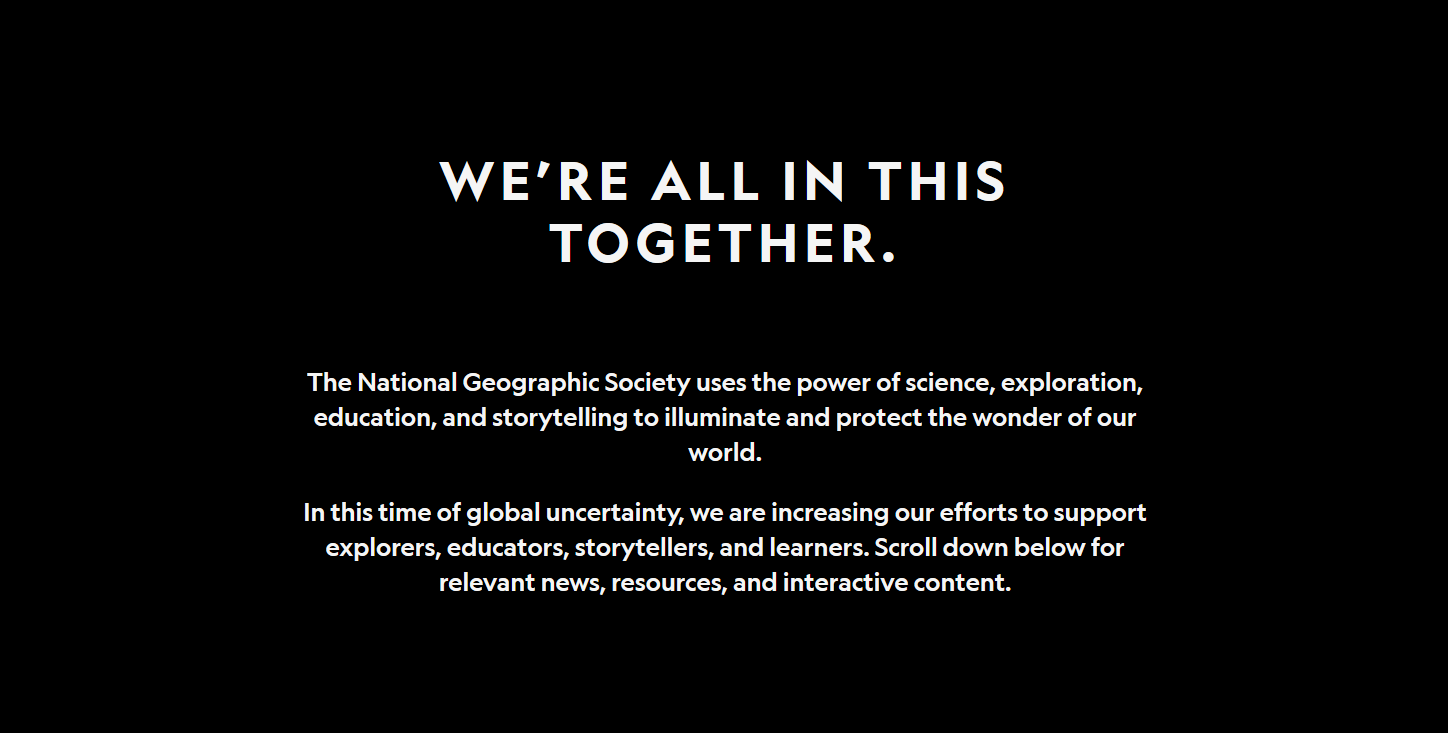
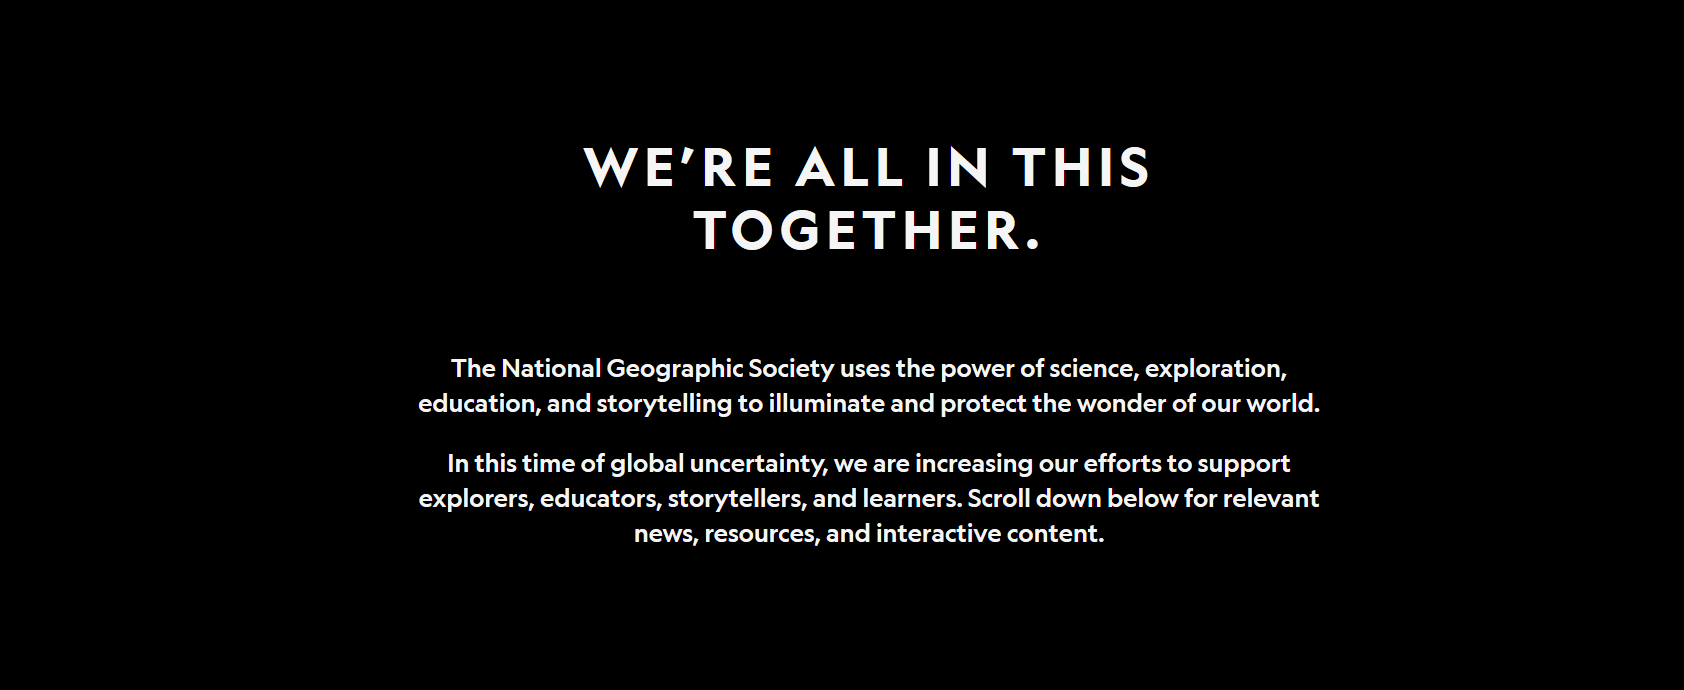
Finished feature-section on components page

Changed region(s): [[0.2175, 0.487, 0.808, 0.8217], [0.2797, 0.213, 0.7148, 0.2739], [0.3729, 0.3043, 0.6215, 0.3652]]

diff --git a/components/index.html b/components/index.html
@@ -57,7 +57,6 @@
                     <ul class="sidebar-nav__list">
                         <li><a href="#feature-section">feature-section</a></li>
                         <li><a href="#feature-section__contents">feature-section__contents</a></li>
-                        <li><a href="#feature-section--left">feature-section--left</a></li>
                         <li><a href="#feature-section--right">feature-section--right</a></li>
                         <li><a href="#feature-section--hero">feature-section--hero</a></li>
                     </ul>
@@ -401,13 +400,13 @@
         <!--Feature-Section-->
         <section id="featuresection" class="page-section">
             <h2 class="components-page__section-heading">Feature Section</h2>
-            <article id="feature-section" class="component component--not--done">
+            <article id="feature-section" class="component component--is--done">
                 <h3 class="component__name">Feature-Section</h3>
                 <div class="component__img">
-                    <img src="img/feature-section__background.png" alt="Feature Section">
+                    <img src="img/feature-section__background-screenshot.jpg" alt="Feature Section">
                 </div>
                 <div class="component__code">
-                    <div class="feauture-section--container">
+                    <div class="feature-section--container covid-section--background">
                         <div class="content-wrapper">
                             <div class="section__content">
                                 <h2 class="section-header">COVID-19 Emergency Fund for Journalists</h2>
@@ -418,13 +417,80 @@
                                     <a href="#!">Learn More</a>
                                 </h5>
                             </div>
+                            <div class="section__content"></div>
                         </div>
                     </div>
                 </div>
             </article>
-
+            <article id="feature-section__contents" class="component component--is--done">
+                <h3 class="component__name">Feature-Section__Contents</h3>
+                <div class="component__img">
+                    <img src="img/feature-section__contents.png" alt="Feature Section Content">
+                </div>
+                <div class="component__code black">
+                    <div class="content-wrapper">
+                        <div class="section__content">
+                            <h2 class="section-header">COVID-19 Emergency Fund for Journalists</h2>
+                            <p class="section-body">The National Geographic Society’s emergency fund will support
+                                journalists around the world who wish to safely cover COVID-19 within their own
+                                communities.</p>
+                            <h5 class="button">
+                                <a href="#!">Learn More</a>
+                            </h5>
+                        </div>
+                    </div>
+                </div>
+            </article>
+            <article id="feature-section--right" class="component component--is--done">
+                <h3 class="component__name">Feature-Section--right</h3>
+                <div class="component__img">
+                    <img src="img/feature-section--right.jpg" alt="Feature Section Right">
+                </div>
+                <div class="component__code">
+                    <div class="feature-section--container schools-section--background">
+                        <div class="content-wrapper">
+                            <div class="section__content"></div>
+                            <div class="section__content">
+                                <h2 class="section-header">Schools are closed. Learning is open.</h2>
+                                <p class="section-body">There are many engaging, creative, and fun ways to learn at
+                                    home. We invite you to explore curated collections of activities that have been
+                                    developed for educators, parents, and caregivers to implement with K–12 learners
+                                    anywhere, anytime.</p>
+                                <h5 class="button">
+                                    <a href="#!">Explore More</a>
+                                </h5>
+                            </div>
+                        </div>
+                    </div>
+                </div>
+            </article>
+            <article id="feature-section--hero" class="component component--not--done">
+                <h3 class="component__name">Feature-Section--Hero</h3>
+                <div class="component__img">
+                    <img src="img/feature-section--hero.png" alt="Feature Section Hero">
+                </div>
+                <div class="component__code">
+                    <div class="black">
+                        <div class="content-wrapper hero__content-wrapper">
+                            <div class="hero__content">
+                                <h2 class="whitespace"></h2>
+                                <h2 class="section-header hero-header">We're all in this together.</h2>
+                                <p class="whitespace"></p>
+                                <h4 class="hero--strong-text">The National Geographic Society uses the power of science,
+                                    exploration,
+                                    education, and storytelling to illuminate and protect the wonder of our world.</h4>
+                                <h4 class="hero--strong-text">In this time of global uncertainty, we are increasing our
+                                    efforts to
+                                    support explorers, educators, storytellers, and learners. Scroll down below for
+                                    relevant news, resources, and interactive content.</h4>
+                                <p class="whitespace"></p>
+                            </div>
+                        </div>
+                    </div>
+                </div>
+            </article>
+        </section>
     </div>
-
 </body>
 
 </html>

diff --git a/css/main.css b/css/main.css
@@ -51,9 +51,10 @@ h3 {
 }
 
 h4 {
-    font-size: 1.25rem;
+    font-size: 1.35rem;
     text-transform: none;
-    font-weight: 900;
+    font-weight: 800;
+    letter-spacing: 0.25px;
 }
 
 h5 {
@@ -186,7 +187,7 @@ a {
     margin: 0;
 }
 .components-page .component__name {
-    top: 5rem;
+    top: 4.45rem;
     position: sticky;
     z-index: 9;
 }
@@ -429,10 +430,17 @@ h5.button{
 /**
 .feature-section
 **/
-.feauture-section--container {
+.covid-section--background {
   background-image: linear-gradient(rgba(0, 0, 0, 0.3), rgba(0, 0, 0, 0.3)), url(../components/img/feature-section__background.jpg);
   background-color: rgba(255, 255, 255, 0.3);
   min-width: 100% !important;
+}
+.schools-section--background {
+  background-image: linear-gradient(rgba(0, 0, 0, 0.3), rgba(0, 0, 0, 0.3)), url(../components/img/schools-section--background.jpg);
+  background-color: rgba(255, 255, 255, 0.3);
+  min-width: 100% !important;
+}
+.feature-section--container {
   height: 100vh;
   background-attachment: fixed;
   background-position: center;
@@ -451,4 +459,24 @@ h5.button{
 .section__content {
   min-height: 318px;
   width: 50%;
+}
+.hero--strong-text {
+  color: var(--color-white);
+  text-align: center;
+}
+.hero__content {
+  min-height: 318px;
+  width: 66.66%;
+}
+.hero-header {
+  text-align: center;
+}
+.hero__content-wrapper {
+  justify-content: center;
+}
+.whitespace {
+  display: inline-block;
+}
+h2.whitespace {
+  margin-top: 4rem;
 }
